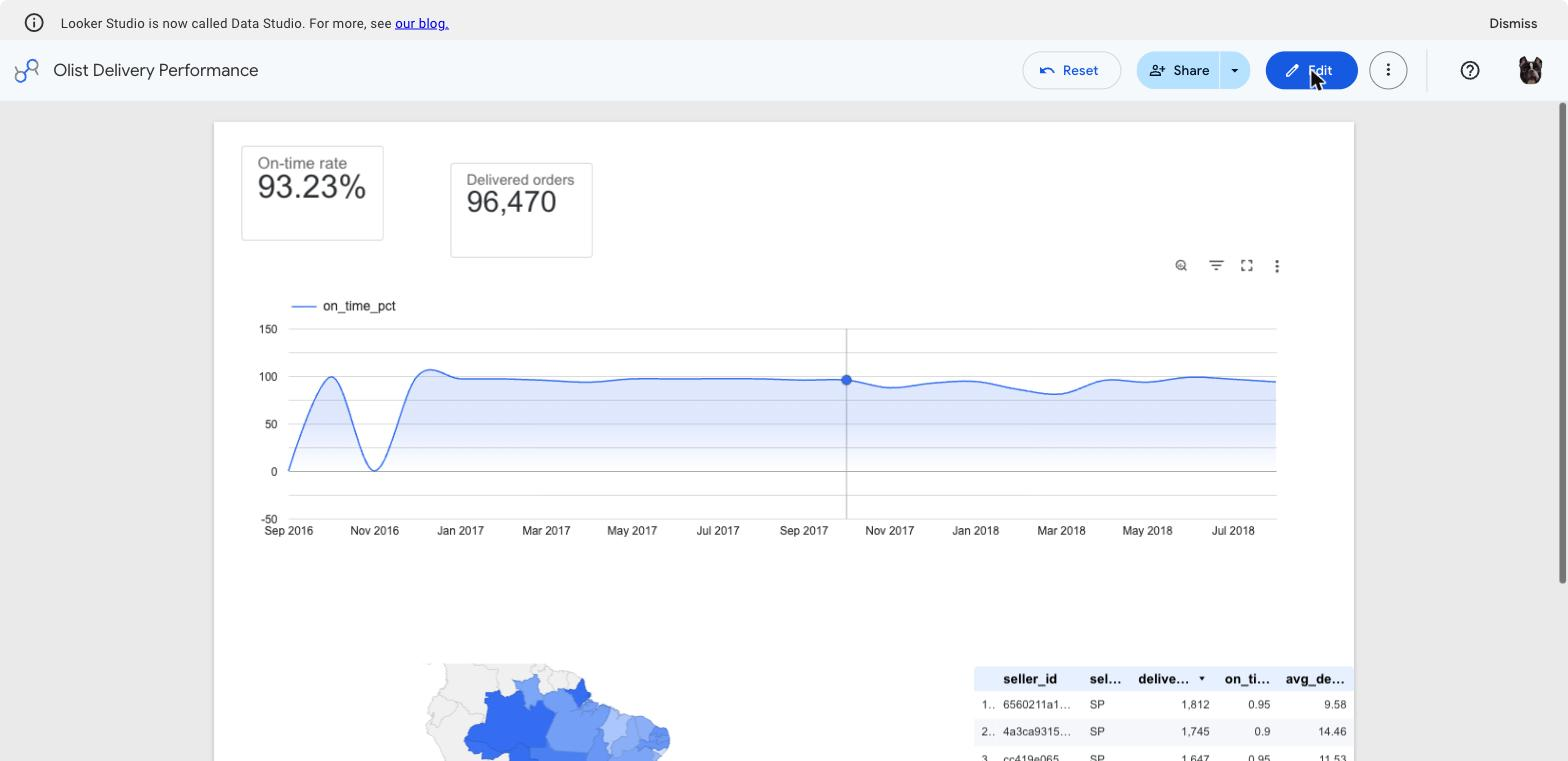
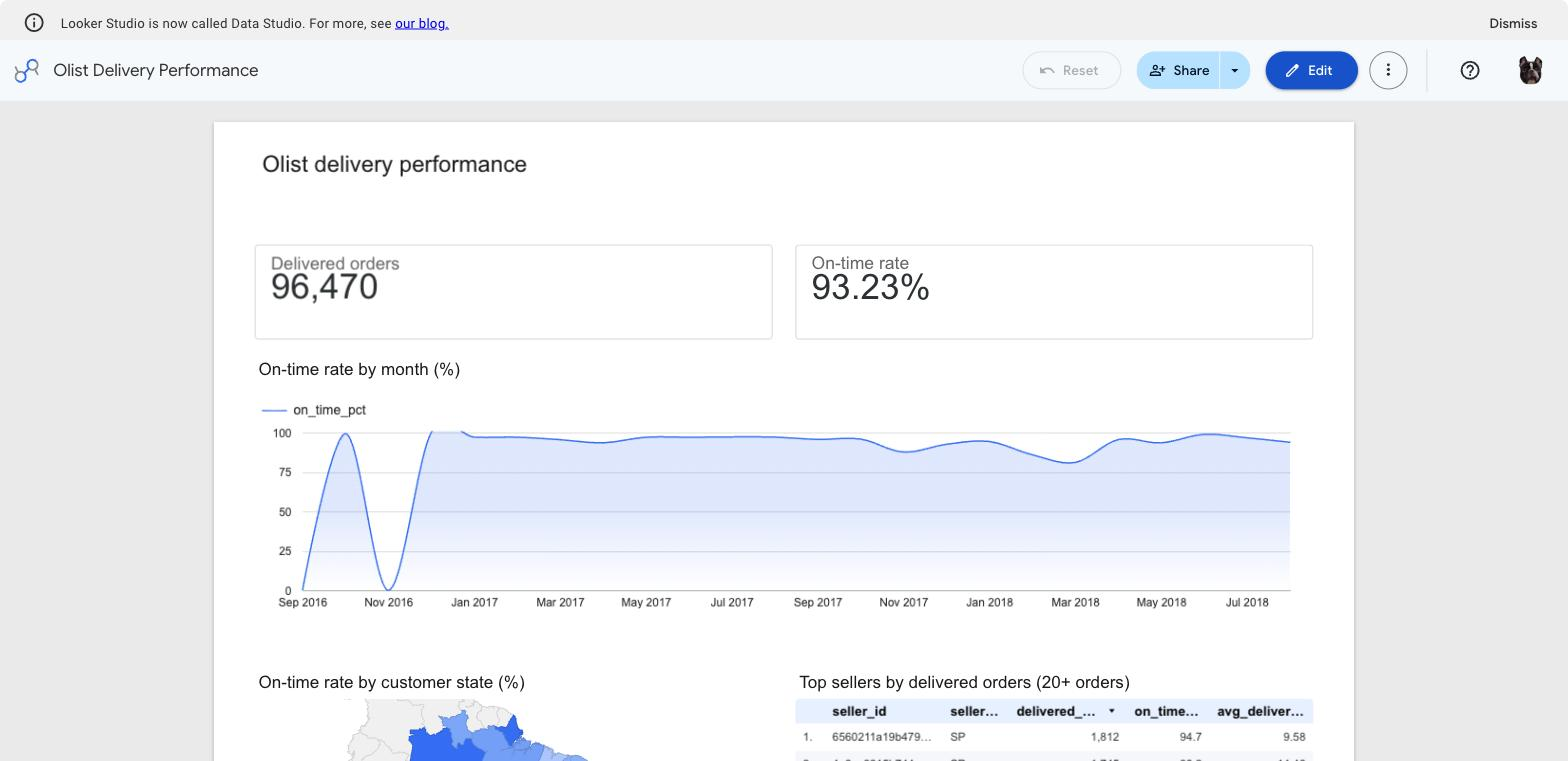
Lay the dashboard out on a grid and put every percentage on one scale
The report was five components dropped wherever they landed: scorecards of
different sizes and misaligned, the table overflowing the page edge, the map
floating in the middle. It is now a two-column grid -- title, two equal
scorecards, the trend across the full width, map and table sharing the bottom
row -- with a chart title on each component instead of a bare field name.

The trend's y-axis was on auto, which padded the scale to -50..150 and squashed
the line into the middle third of the chart. Pinned to 0-100.

The leaderboard still showed its rate as 0.95 while the rest of the page read in
percent, so vw_bi_seller_leaderboard now exposes on_time_pct alongside
on_time_rate, the same 0-100 twin the other views carry. A twelfth check keeps
the pair honest. Fixing it in SQL rather than reformatting in the report is what
keeps the claim that the dashboard holds no calculated fields true.

diff --git a/README.md b/README.md
@@ -21,7 +21,7 @@ Olist CSVs  ──01_load.sh──▶  olist_raw  ──02_marts.sql──▶  o
                                                  └─06_bi_views.sql ────────▶ 4 BI views
                                                                                │
                                                      07_bi_checks.sql ◀────────┤
-                                                     11 checks + ASSERT        │
+                                                     12 checks + ASSERT        │
                                                                                ▼
                                                                        Looker Studio
 ```
@@ -127,12 +127,12 @@ The dashboard contains **no calculated fields** — `on_time_pct` is exposed on 
 `%` without scaling and would render a 0-1 rate as "0.93%". Keeping the scaled
 column in the view means every number on screen traces back to this file.
 
-`07_bi_checks.sql` gates that layer with 11 assertions: the `_opt` copy holds the
+`07_bi_checks.sql` gates that layer with 12 assertions: the `_opt` copy holds the
 same rows and the same headline rate as its source, every aggregate view adds
 back up to the fact row count, `month_start` round-trips to `order_month`, the
 region codes are valid ISO 3166-2, no plotted rate escapes 0–1, and the
 leaderboard floor actually holds, and `on_time_pct` stays exactly 100x
-`on_time_rate`. Current state: **11 / 11 PASS**.
+`on_time_rate`, in every view that exposes both. Current state: **12 / 12 PASS**.
 
 ## The dashboard
 
@@ -152,6 +152,14 @@ report:
 | Time series | on-time rate by month | `vw_bi_monthly` |
 | Geo chart | on-time rate by customer state | `vw_bi_orders.customer_region_code` |
 | Table | seller leaderboard, 796 sellers | `vw_bi_seller_leaderboard` |
+
+Laid out on a two-column grid: title, the two scorecards side by side, the trend
+across the full width, then the map and the table sharing the bottom row. The
+trend's y-axis is pinned to 0-100 rather than left on auto, which otherwise
+padded the scale out to -50..150 and squashed the line into the middle third.
+Every percentage on the page reads on the same 0-100 scale, including the
+leaderboard column, because `on_time_pct` is exposed by each view that has a
+rate — not because a number was reformatted in the report.
 
 Two things the dashboard confirms rather than asserts: both scorecards match the
 figures `03_quality_checks.sql` verifies against the warehouse, and the table
@@ -271,7 +279,7 @@ the derived table first to stay re-runnable.
 | `sql/04_partition_cluster.sql` | partitioned + clustered copy of the fact |
 | `05_benchmark.sh` | bytes scanned before/after, dry-run and real |
 | `sql/06_bi_views.sql` | the four views a BI tool reads |
-| `sql/07_bi_checks.sql` | 11 checks + `ASSERT` over the `_opt` copy and the views |
+| `sql/07_bi_checks.sql` | 12 checks + `ASSERT` over the `_opt` copy and the views |
 | `results/benchmark.md` | generated output of the benchmark |
 | `dashboard/screenshots/` | the Looker Studio report, captured |
 | `.github/workflows/ci.yml` | shellcheck + sqlfluff gates, no credentials needed |
